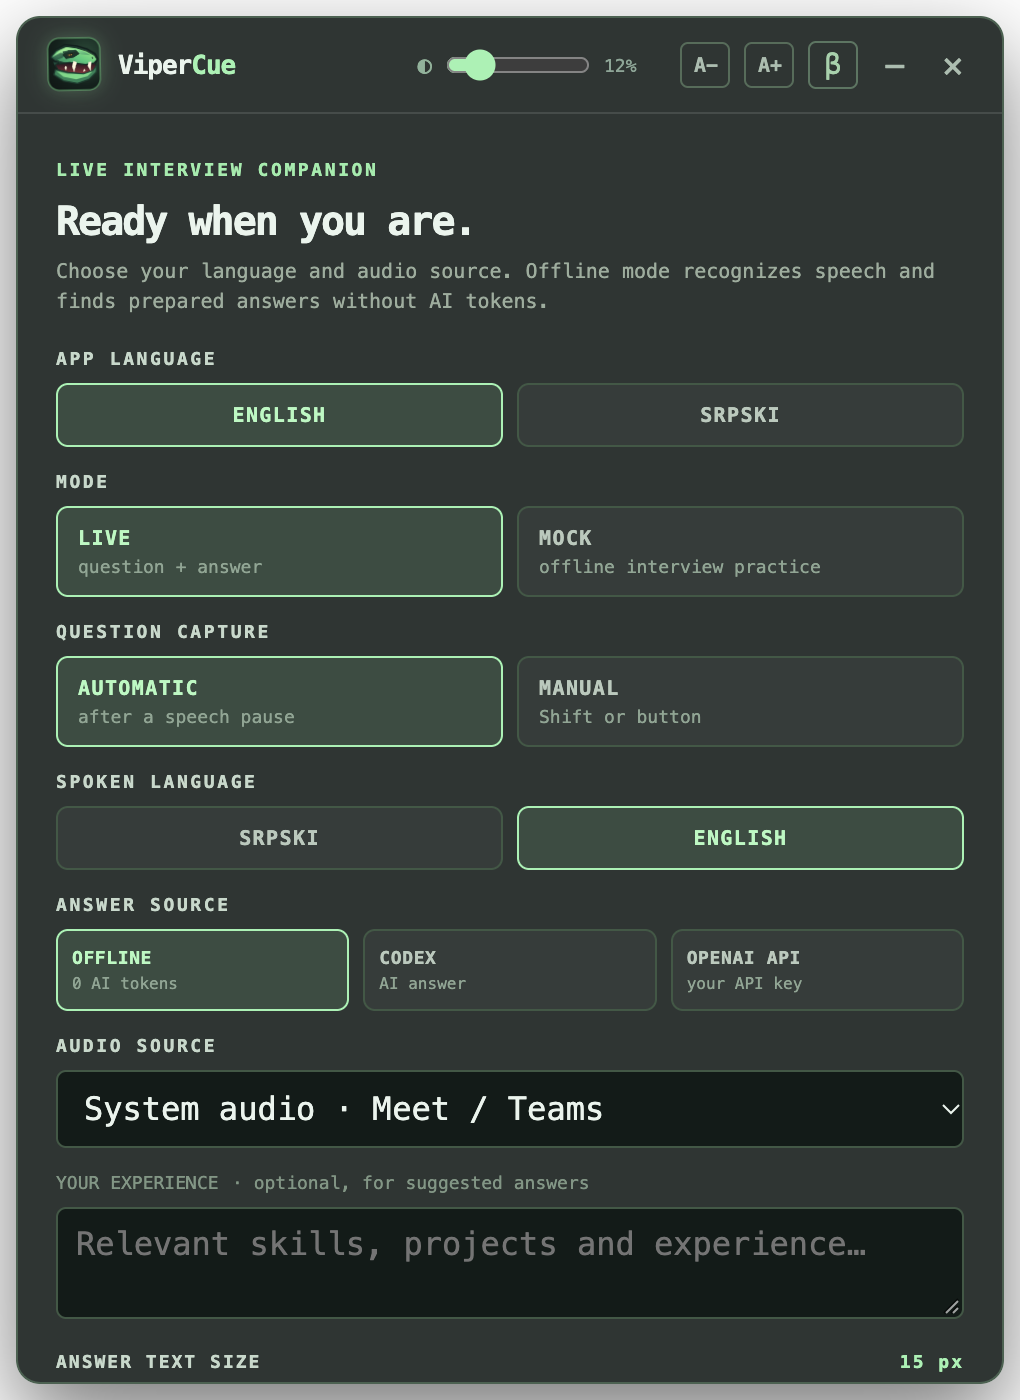
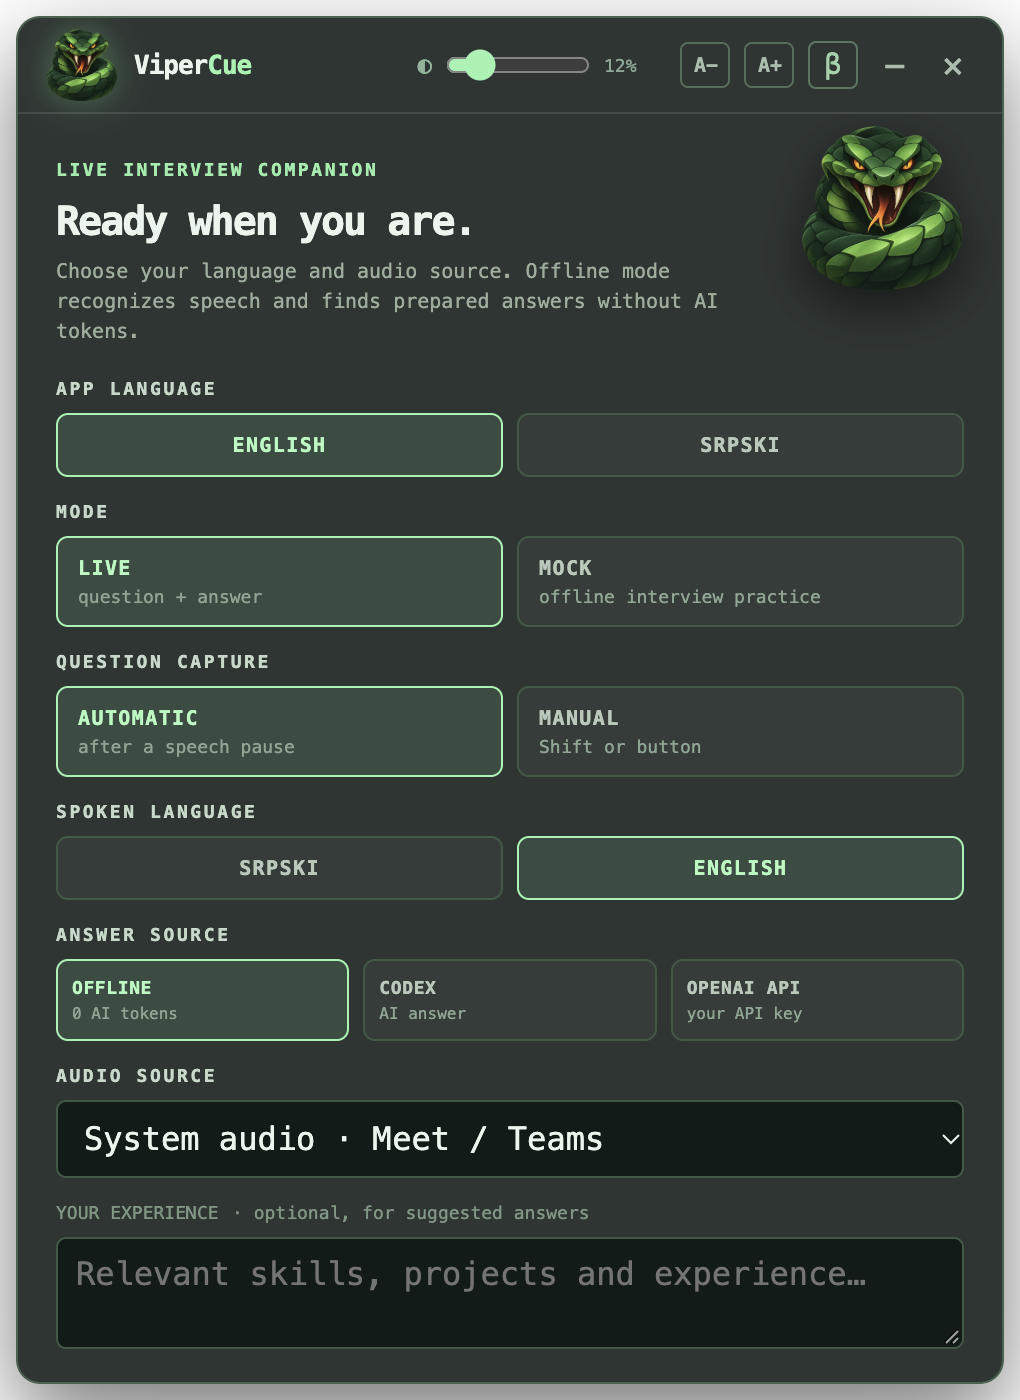
Refresh viper motion and center interview illustration

diff --git a/portfolio/meet-promo.html b/portfolio/meet-promo.html
@@ -7,7 +7,7 @@
   <style>
     *{box-sizing:border-box}body{margin:0;background:#07120e;color:#f1fff4;font-family:Inter,ui-sans-serif,system-ui,-apple-system,sans-serif}
     main{width:1600px;height:1000px;padding:46px 58px;background:radial-gradient(circle at 83% 14%,#1d5639 0,#0b2218 38%,#06100c 75%);overflow:hidden}
-    header{display:flex;align-items:center;gap:17px}.logo{width:70px;height:70px}.brand{font-size:24px;font-weight:800;letter-spacing:-.04em}.brand span{color:#a1f4af}
+    header{display:flex;align-items:center;gap:17px}.logo{width:70px;height:70px;object-fit:contain;filter:drop-shadow(0 0 12px #7aed9466);animation:viper-breathe 6s ease-in-out infinite}.brand{font-size:24px;font-weight:800;letter-spacing:-.04em}.brand span{color:#a1f4af}
     .tag{margin-left:auto;color:#b4d4bf;font:700 13px ui-monospace,monospace;letter-spacing:.16em;text-transform:uppercase}
     h1{margin:30px 0 9px;font-size:53px;letter-spacing:-.055em;line-height:1.08;max-width:900px}.mint{color:#9af1ac}
     .sub{margin:0 0 25px;color:#b9d1c0;font-size:19px}
@@ -17,33 +17,35 @@
     .address{margin-left:21px;background:#1b2421;color:#a9bdb0;border-radius:8px;padding:5px 16px;min-width:270px;font-size:12px}
     .topline{height:54px;display:flex;align-items:center;padding:0 23px;color:#dce5de;font-size:16px;font-weight:650}
     .live{margin-left:auto;color:#94edaa;font-size:12px;letter-spacing:.11em}
-    .tiles{display:grid;grid-template-columns:1fr 1fr;gap:16px;padding:0 18px;width:calc(100% - 350px)}
+    .tiles{display:grid;grid-template-columns:1fr 1fr;gap:16px;padding:0 18px;width:100%}
     .tile{height:465px;position:relative;overflow:hidden;border-radius:14px;background:#2b3530;border:1px solid #44594a}
     .tile img{width:100%;height:100%;object-fit:cover;object-position:center 43%}
     .name{position:absolute;bottom:15px;left:16px;padding:7px 12px;border-radius:7px;background:#09120dce;color:#fff;font-size:15px;font-weight:650}
     .controls{height:79px;display:flex;gap:13px;justify-content:center;align-items:center}
     .control{width:43px;height:43px;border-radius:50%;background:#3c4640;display:grid;place-items:center;font-size:20px}.hangup{background:#bd3d3f;width:62px;border-radius:25px}
-    .overlay{position:absolute;right:18px;top:119px;width:330px;filter:drop-shadow(0 15px 22px #000c)}
-    .overlay-caption{position:absolute;right:34px;bottom:87px;background:#09190eea;border:1px solid #83e698;border-radius:7px;padding:9px 13px;color:#caffd1;font:700 12px ui-monospace,monospace;letter-spacing:.08em}
+    .overlay{position:absolute;left:50%;top:117px;width:370px;transform:translateX(-50%);filter:drop-shadow(0 18px 28px #000e)}
+    .overlay-caption{position:absolute;right:34px;bottom:76px;white-space:nowrap;background:#09190eea;border:1px solid #83e698;border-radius:7px;padding:9px 13px;color:#caffd1;font:700 12px ui-monospace,monospace;letter-spacing:.08em}
+    @keyframes viper-breathe{0%,43%,100%{transform:translateY(0) scale(1)}51%{transform:translateY(-2px) scale(1.035)}58%{transform:translate(2px,-3px) scale(1.07)}66%{transform:translateY(0) scale(1)}}
+    @media (prefers-reduced-motion:reduce){.logo{animation:none}}
     footer{display:flex;justify-content:space-between;align-items:center;margin-top:18px;font-size:14px;color:#9fb9a7}
     footer strong{font-size:14px;color:#c7f8d1}
   </style>
 </head>
 <body>
   <main>
-    <header><img class="logo" src="../src/assets/vipercue-viper.svg" alt=""><div class="brand">Viper<span>Cue</span></div><div class="tag">Interview companion · Concept illustration</div></header>
+    <header><img class="logo" src="../src/assets/vipercue-viper.png" alt=""><div class="brand">Viper<span>Cue</span></div><div class="tag">Interview companion · Concept illustration</div></header>
     <h1>Be ready when <span class="mint">the question lands.</span></h1>
     <p class="sub">Local speech recognition. A concise answer beside your call. Offline practice when you need it.</p>
     <section class="meet" aria-label="Fictional video interview illustration">
       <div class="browser"><span class="dot"></span><span class="dot"></span><span class="dot"></span><div class="address">meet.google.com · illustrative call</div></div>
       <div class="topline">Technical interview · Concept conversation <span class="live">● ILLUSTRATIVE DEMO</span></div>
       <div class="tiles">
-        <div class="tile"><img src="images/fictional-interviewer.png" alt="AI generated fictional interviewer"><span class="name">John Doe · Interviewer</span></div>
-        <div class="tile"><img src="images/illustrated-founder.png" alt="Edited portrait of the app creator"><span class="name">Peter Neuner · Candidate</span></div>
+        <div class="tile"><img src="images/fictional-interviewer.png" alt="AI generated fictional interviewer"><span class="name">Maria Bacardi · Interviewer</span></div>
+        <div class="tile"><img src="images/illustrated-founder.png" alt="Edited portrait of the app creator"><span class="name">Petar Nojner · Candidate</span></div>
       </div>
       <div class="controls"><span class="control">♬</span><span class="control">◉</span><span class="control hangup">⌁</span><span class="control">▣</span><span class="control">⋯</span></div>
       <img class="overlay" src="images/03-live-en.png" alt="ViperCue application interface">
-      <span class="overlay-caption">VISIBLE TO THE LOCAL USER</span>
+      <span class="overlay-caption">FLOATING OVER THE CALL · LOCAL DISPLAY</span>
     </section>
     <footer><span>Synthetic Meet-style scene · edited personal portrait · fictional interviewer · actual ViperCue interface capture</span><strong>Live answers · Offline rehearsal · EN / SR</strong></footer>
   </main>

diff --git a/src/index.html b/src/index.html
@@ -10,7 +10,7 @@
 <body>
   <main class="shell" id="shell">
     <header class="titlebar">
-      <div class="brand"><img class="brand-icon" src="assets/vipercue-viper.svg" alt=""><span>Viper<span class="accent">Cue</span></span></div>
+      <div class="brand"><img class="brand-icon" src="assets/vipercue-viper.png" alt=""><span>Viper<span class="accent">Cue</span></span></div>
       <div class="header-controls">
         <label class="opacity-control" for="opacity" data-i18n-title="Window transparency"><span>◐</span><input id="opacity" type="range" min="2" max="65" value="12" data-i18n-aria="Window transparency"><output id="opacityValue">12%</output></label>
         <button id="fontDown" class="font-control" type="button" data-i18n-title="Decrease answer text size">A−</button><button id="fontUp" class="font-control" type="button" data-i18n-title="Increase answer text size">A+</button>
@@ -20,7 +20,7 @@
       </div>
     </header>
     <section id="setup" class="setup">
-      <div class="intro"><span class="eyebrow" data-i18n="LIVE INTERVIEW COMPANION">LIVE INTERVIEW COMPANION</span><h1 data-i18n="Ready when you are.">Ready when you are.</h1><p data-i18n="Choose your language and audio source. Offline mode recognizes speech and finds prepared answers without AI tokens.">Choose your language and audio source. Offline mode recognizes speech and finds prepared answers without AI tokens.</p></div>
+      <div class="intro"><span class="eyebrow" data-i18n="LIVE INTERVIEW COMPANION">LIVE INTERVIEW COMPANION</span><h1 data-i18n="Ready when you are.">Ready when you are.</h1><p data-i18n="Choose your language and audio source. Offline mode recognizes speech and finds prepared answers without AI tokens.">Choose your language and audio source. Offline mode recognizes speech and finds prepared answers without AI tokens.</p><img class="intro-viper" src="assets/vipercue-viper.png" alt=""></div>
       <div class="field"><span class="field-label" data-i18n="APP LANGUAGE">APP LANGUAGE</span><div class="choice-row"><button id="uiEnglish" class="choice selected" type="button">ENGLISH</button><button id="uiSerbian" class="choice" type="button">SRPSKI</button></div></div>
       <div class="field"><span class="field-label" data-i18n="MODE">MODE</span><div class="choice-row"><button id="liveMode" class="choice selected" type="button">LIVE <small data-i18n="question + answer">question + answer</small></button><button id="mockMode" class="choice" type="button">MOCK <small data-i18n="offline interview practice">offline interview practice</small></button></div></div>
       <div class="field" id="captureModeField"><span class="field-label" data-i18n="QUESTION CAPTURE">QUESTION CAPTURE</span><div class="choice-row"><button id="autoCapture" class="choice selected" type="button"><span data-i18n="AUTOMATIC">AUTOMATIC</span> <small data-i18n="after a speech pause">after a speech pause</small></button><button id="manualCapture" class="choice" type="button"><span data-i18n="MANUAL">MANUAL</span> <small data-i18n="Shift or button">Shift or button</small></button></div></div>

diff --git a/src/styles.css b/src/styles.css
@@ -7,9 +7,13 @@
 .provider-row .choice{padding:8px 7px;font-size:9px;letter-spacing:.3px}.provider-row .choice small{font-size:8px}
 .dashboard{display:grid;grid-template-columns:repeat(2,minmax(0,1fr));gap:6px;margin:11px 0}.dashboard-cell{display:flex;flex-direction:column;gap:3px;padding:7px;border:1px solid #5a805f66;border-radius:5px;background:#9af5b10a}.dashboard-cell span{color:#8eae95;font-size:9px}.dashboard-cell strong{color:#d4ffdd;font-size:15px}.dashboard-breakdown{grid-column:1/-1;color:#9ebca5;white-space:pre-line;line-height:1.7;font-size:9px}
 #providerBadge{margin-left:auto;color:#9af5b1;font-size:8px;letter-spacing:.3px}#languageBadge{margin-left:5px}
-.brand-icon{width:28px;height:28px;flex:none;filter:drop-shadow(0 0 5px #8cf2a644);animation:viper-breathe 3.6s ease-in-out infinite}
-@keyframes viper-breathe{0%,100%{transform:translateY(0) rotate(-2deg)}50%{transform:translateY(-2px) rotate(2deg)}}
-@media (prefers-reduced-motion:reduce){.brand-icon{animation:none}}
+.brand-icon{width:36px;height:36px;flex:none;object-fit:contain;transform-origin:50% 72%;filter:drop-shadow(0 0 8px #75de8759);animation:viper-breathe 6.4s ease-in-out infinite}
+@keyframes viper-breathe{0%,44%,100%{transform:translate(0,0) scale(1)}52%{transform:translate(-2px,2px) scale(.97)}59%{transform:translate(4px,-4px) scale(1.12)}68%{transform:translate(0,0) scale(1)}}
+@keyframes viper-strike{0%{transform:translate(0,0) scale(1)}35%{transform:translate(-3px,3px) scale(.96)}58%{transform:translate(5px,-6px) scale(1.18)}100%{transform:translate(0,0) scale(1)}}
+.brand-icon:hover,.intro-viper:hover{animation:viper-strike .72s cubic-bezier(.22,.9,.24,1) both}
+.shell:has(.session:not(.hidden)) .brand-icon{animation:none}
+.intro{position:relative;min-height:88px;padding-right:93px}.intro-viper{position:absolute;right:0;top:-10px;width:82px;height:82px;object-fit:contain;transform-origin:50% 75%;filter:drop-shadow(0 9px 12px #0008);animation:viper-breathe 6s ease-in-out infinite}
+@media (prefers-reduced-motion:reduce){.brand-icon,.brand-icon:hover,.intro-viper,.intro-viper:hover{animation:none}}
 html:lang(sr) .session-status{font-size:8px;letter-spacing:.65px}
 html:lang(sr) #providerBadge{font-size:7px;white-space:nowrap}
 .mock-spoken{margin-top:auto;padding-top:8px;border-top:1px solid #9af5b126;color:#9cbda5;font-size:10px;line-height:1.4;white-space:pre-wrap;max-height:82px;overflow:auto}

diff --git a/README.md b/README.md
@@ -4,11 +4,11 @@
 
 Created by [@nokibuzz](https://github.com/nokibuzz).
 
-![ViperCue icon: a striking viper head](src/assets/vipercue-viper.svg)
+![ViperCue icon: a powerful coiled viper](src/assets/vipercue-viper.png)
 
 ![Illustrative interview scene with the ViperCue overlay](portfolio/images/08-meet-promo.png)
 
-The scene above combines an edited creator portrait, a fictional AI-generated interviewer and an actual app capture. It is a concept illustration, not a recording of a real meeting. The interface mark animates; the macOS app icon is static.
+The scene above combines an edited creator portrait, a fictional AI-generated interviewer and an actual app capture. It is a concept illustration, not a recording of a real meeting. The viper illustration crouches and lunges on the setup screen and pauses during a live session. The macOS app icon is static. Motion stops when the system requests **Reduce Motion**, in line with [Apple's motion guidance](https://developer.apple.com/design/human-interface-guidelines/motion) and [W3C's reduced-motion technique](https://www.w3.org/WAI/WCAG22/Techniques/css/C39.html).
 
 | Live answer | Offline practice |
 | --- | --- |
@@ -24,7 +24,7 @@ The [live offline library](src/data/interview-questions.md) has 47 bilingual ent
 
 ## Install
 
-The current macOS package targets **Intel x64**. Download the [ViperCue 0.8.1 preview DMG](https://github.com/nokibuzz/vipercue/releases/download/v0.8.1/ViperCue-0.8.1.dmg), open it, drag **ViperCue.app** into Applications, and launch it. The app includes the local Whisper binary and multilingual model, so the installed app needs no account or API key for Offline and Mock. This build is unsigned; macOS may require **Open** from Finder's context menu. Grant Microphone access for Mock and system audio capture permission for Live when prompted.
+The current macOS package targets **Intel x64**. Download the [ViperCue 0.8.2 preview DMG](https://github.com/nokibuzz/vipercue/releases/download/v0.8.2/ViperCue-0.8.2.dmg), open it, drag **ViperCue.app** into Applications, and launch it. The app includes the local Whisper binary and multilingual model, so the installed app needs no account or API key for Offline and Mock. This build is unsigned; macOS may require **Open** from Finder's context menu. Grant Microphone access for Mock and system audio capture permission for Live when prompted.
 
 To build from a checkout on macOS:
 
@@ -41,7 +41,7 @@ The first start downloads and builds [whisper.cpp](https://github.com/ggml-org/w
 npm run dist:mac
 ```
 
-The package appears in `dist/`, which Git ignores. A fresh checkout does **not** include a model binary. The [preview release](https://github.com/nokibuzz/vipercue/releases/tag/v0.8.1) contains the distributable DMG.
+The package appears in `dist/`, which Git ignores. A fresh checkout does **not** include a model binary. The [preview release](https://github.com/nokibuzz/vipercue/releases/tag/v0.8.2) contains the distributable DMG.
 
 ## First session
 

diff --git a/portfolio/README.md b/portfolio/README.md
@@ -1,12 +1,12 @@
 # ViperCue · visual walkthrough
 
-ViperCue is a floating macOS interview companion with an animated viper-head mark. English is the default interface; Serbian is available for the interface, transcription, questions, and prepared answers.
+ViperCue is a floating macOS interview companion with an animated, coiled viper mark. English is the default interface; Serbian is available for the interface, transcription, questions, and prepared answers.
 
 ## Meet-style concept scene
 
 ![ViperCue illustrative video interview](images/08-meet-promo.png)
 
-This is a composed product illustration, not a recording of a Meet call. It shows a fictional AI-generated interviewer labeled John Doe, an edited portrait supplied by the creator labeled Peter Neuner, and an actual ViperCue interface capture. The original personal photo is not part of this repository. The editable layout is [meet-promo.html](meet-promo.html).
+This is a composed product illustration, not a recording of a Meet call. It shows a fictional AI-generated interviewer labeled Maria Bacardi, an edited portrait supplied by the creator labeled Petar Nojner, and an actual ViperCue interface capture floating across the center of the call. The original personal photo is not part of this repository. The editable layout is [meet-promo.html](meet-promo.html).
 
 ## Start a session
 
